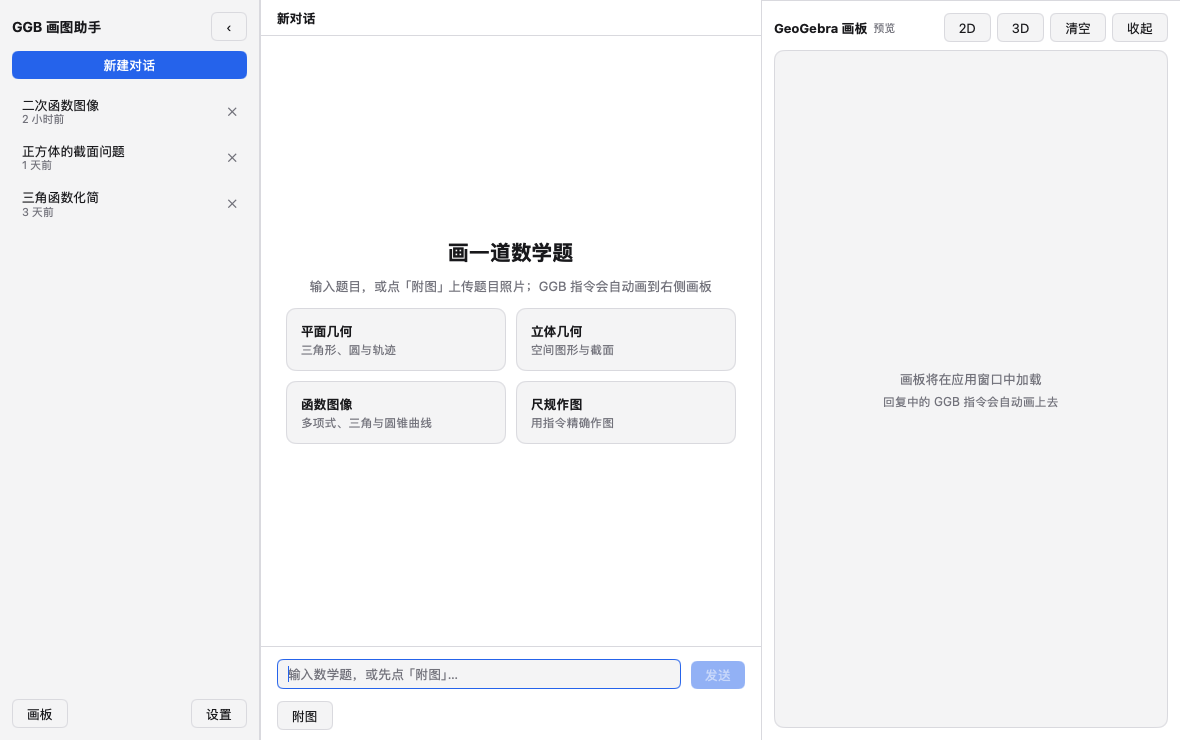
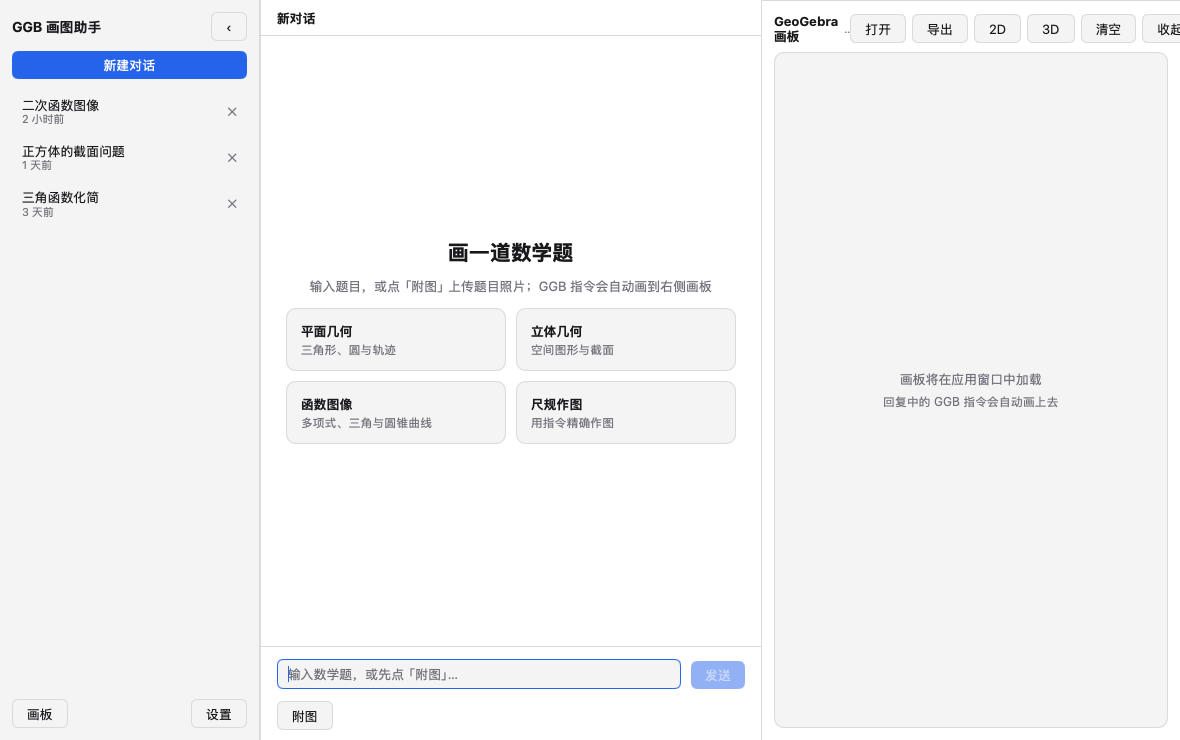
feat(desktop): bring the rest of geogebra-dsh's board tools
The board bridge now covers the full tool set from geogebra-dsh minus the
command catalog (invalid commands are already reported per-line):

- export .ggb: page getBase64 (all callback shapes, like dsh client.js) ->
  GGBBridge.Export -> save dialog -> file
- open .ggb: file picker -> base64 -> applet.setBase64 -> state report
- read state: after every command batch (and open/clear) the page reports
  getObjectNumber + getAllObjectNames; the panel status shows the live
  object count, notes for exports/failures
- board ops ride the same ggb-cmds event with an op field (run/export/
  read/open)

Changed region(s): [[0.6407, 0.0, 1.0, 0.0622]]

diff --git a/desktop/web/geogebra.html b/desktop/web/geogebra.html
@@ -112,24 +112,80 @@
     return app.evalCommand(text) === true;
   }
 
+  function runCommands(msg) {
+    if (msg.reset) {
+      try { api().newConstruction(); } catch (e) { /* 空画板无需清理 */ }
+    }
+    if (msg.perspective) {
+      try { api().setPerspective(msg.perspective); } catch (e) { /* 保持原视角 */ }
+    }
+    var applied = 0, errors = [];
+    (msg.commands || []).forEach(function (cmd) {
+      var ok = false;
+      try { ok = applyOne(cmd); } catch (e) { ok = false; }
+      if (ok) { applied++; } else { errors.push(cmd); }
+    });
+    mygo.call('GGBBridge.Report', msg.id || '', applied, errors);
+    readState(msg.id || '');
+  }
+
+  // 读状态：对象数与名字清单回报给 Go
+  function readState(id) {
+    var app = api();
+    if (!app) return;
+    var names = [];
+    try { names = app.getAllObjectNames() || []; } catch (e) { names = []; }
+    var count = app.getObjectNumber();
+    if (!count && names.length) count = names.length;
+    mygo.call('GGBBridge.State', id || '', count, JSON.stringify(names));
+  }
+
+  // 导出 .ggb：getBase64 有多种回调形态，逐个试（与 geogebra-dsh 同思路）
+  function doExport(id) {
+    var app = api();
+    if (!app) return;
+    var done = false;
+    var deliver = function (b64) {
+      if (done) return;
+      done = true;
+      mygo.call('GGBBridge.Export', id || '', String(b64 || ''));
+    };
+    try { return deliver(app.getBase64()); } catch (e) { /* 试试回调形态 */ }
+    try { app.getBase64(deliver); } catch (e) { /* 再试双参形态 */ }
+    try { app.getBase64(function (b64) { deliver(b64); }); } catch (e) {
+      mygo.call('GGBBridge.Export', id || '', '');
+    }
+  }
+
+  // 打开 .ggb：base64 直接载入当前画板
+  function doOpen(id, b64) {
+    var app = api();
+    if (!app || !b64) { mygo.call('GGBBridge.State', id || '', 0, '[]'); return; }
+    try {
+      app.setBase64(b64, function () {
+        mygo.call('GGBBridge.State', id || '', app.getObjectNumber(), JSON.stringify(app.getAllObjectNames ? app.getAllObjectNames() || [] : []));
+      });
+    } catch (e) {
+      mygo.call('GGBBridge.Export', id || '', ''); // 让 Go 侧报错（复用导出错误通道不合适，改用 State 空回报）
+      mygo.call('GGBBridge.State', id || '', -1, JSON.stringify([String(e && e.message || e)]));
+    }
+  }
+
   function flush() {
     if (applying || !api() || pending.length === 0) return;
     applying = true;
     var msg = pending.shift();
     try {
-      if (msg.reset) {
-        try { api().newConstruction(); } catch (e) { /* 空画板无需清理 */ }
+      var op = msg.op || 'run';
+      if (op === 'export') {
+        doExport(msg.id || '');
+      } else if (op === 'read') {
+        readState(msg.id || '');
+      } else if (op === 'open') {
+        doOpen(msg.id || '', msg.base64 || '');
+      } else {
+        runCommands(msg);
       }
-      if (msg.perspective) {
-        try { api().setPerspective(msg.perspective); } catch (e) { /* 保持原视角 */ }
-      }
-      var applied = 0, errors = [];
-      (msg.commands || []).forEach(function (cmd) {
-        var ok = false;
-        try { ok = applyOne(cmd); } catch (e) { ok = false; }
-        if (ok) { applied++; } else { errors.push(cmd); }
-      });
-      mygo.call('GGBBridge.Report', msg.id || '', applied, errors);
     } finally {
       applying = false;
     }

diff --git a/desktop/frontend.go b/desktop/frontend.go
@@ -10,6 +10,8 @@ package main
 import (
 	"context"
 	"embed"
+	"encoding/base64"
+	"encoding/json"
 	"io/fs"
 	"os"
 	"path/filepath"
@@ -24,12 +26,14 @@ var webFS embed.FS
 // ggbCmdsEvent 是 Go → 页面的命令事件；负载是 JSON 字符串。
 var ggbCmdsEvent = mygo.NewEvent[string]("ggb-cmds")
 
-// boardMsg 是发给嵌入页的命令负载。
+// boardMsg 是发给嵌入页的负载；op 缺省为 "run"（执行指令）。
 type boardMsg struct {
 	ID          string   `json:"id"`
+	Op          string   `json:"op,omitempty"`          // run | export | read | open
 	Perspective string   `json:"perspective,omitempty"` // "1"=2D，"T"=3D
 	Reset       bool     `json:"reset,omitempty"`
 	Commands    []string `json:"commands"`
+	Base64      string   `json:"base64,omitempty"` // op=open 时的 .ggb 内容
 }
 
 // GGBBridge 绑定给页面回调：画板就绪与指令应用结果。
@@ -49,6 +53,52 @@ func (g *GGBBridge) Report(ctx context.Context, id string, applied int, errors [
 		a.boardApplied = applied
 		a.boardErrors = errors
 	})
+}
+
+// State 由嵌入页回报画板对象数与名字清单（count=-1 表示出错，names[0] 是错误信息）。
+func (g *GGBBridge) State(ctx context.Context, id string, count int, namesJSON string) {
+	a := g.app
+	var names []string
+	json.Unmarshal([]byte(namesJSON), &names)
+	a.win.Update(func() {
+		a.boardObjectCount = count
+		a.boardObjects = names
+		if count < 0 && len(names) > 0 {
+			a.boardNote = "画板操作失败：" + names[0]
+		}
+	})
+}
+
+// Export 由嵌入页回调 .ggb 的 base64；Go 侧弹保存对话框写文件。
+func (g *GGBBridge) Export(ctx context.Context, id, b64 string) {
+	a := g.app
+	if b64 == "" {
+		a.win.Update(func() { a.boardNote = "导出失败：画板没有返回内容" })
+		return
+	}
+	a.boardBusy = true
+	go func() {
+		path, err := mygo.Dialog.Save(mygo.SaveDialogOptions{
+			Parent:      a.win,
+			Title:       "导出 GeoGebra 文件",
+			DefaultPath: "画板.ggb",
+		})
+		note := ""
+		if err == nil && path != "" {
+			data, decErr := base64.StdEncoding.DecodeString(b64)
+			if decErr != nil {
+				note = "导出失败：" + decErr.Error()
+			} else if werr := os.WriteFile(path, data, 0o644); werr != nil {
+				note = "导出失败：" + werr.Error()
+			} else {
+				note = "已导出 " + filepath.Base(path)
+			}
+		}
+		a.win.Update(func() {
+			a.boardBusy = false
+			a.boardNote = note
+		})
+	}()
 }
 
 // ---- 指令 → 画板 ----

diff --git a/desktop/view_model.go b/desktop/view_model.go
@@ -52,12 +52,15 @@ type app struct {
 	showSettings bool
 
 	// GeoGebra 画板
-	ggbView      *mygo.WebView
-	boardReady   bool
-	boardBusy    bool
-	boardApplied int
-	boardErrors  []string
-	boardSeq     int
+	ggbView          *mygo.WebView
+	boardReady       bool
+	boardBusy        bool
+	boardApplied     int
+	boardErrors      []string
+	boardObjectCount int
+	boardObjects     []string
+	boardNote        string
+	boardSeq         int
 
 	md  markdown.Options
 	api *OpenAIClient
@@ -397,6 +400,54 @@ func (a *app) sendToBoard(reset bool, perspective, text string) {
 		a.boardApplied = len(commands) // headless：假装全部成功，保证测试确定性
 		return
 	}
+	a.sendBoardMsg(msg)
+}
+
+// boardOp 发一个非 run 的画板操作（export / read）。
+func (a *app) boardOp(op string) {
+	if a.ggbView == nil {
+		return
+	}
+	a.boardSeq++
+	a.sendBoardMsg(boardMsg{ID: "b" + strconv.Itoa(a.boardSeq), Op: op})
+}
+
+// openGGBFile 选一个 .ggb 文件读入画板。
+func (a *app) openGGBFile() {
+	if a.win == nil || a.boardBusy {
+		return
+	}
+	go func() {
+		paths, err := mygo.Dialog.Open(mygo.OpenDialogOptions{
+			Parent:  a.win,
+			Title:   "打开 GeoGebra 文件",
+			Filters: []mygo.FileFilter{{Name: "GeoGebra", Extensions: []string{"ggb"}}},
+		})
+		if err != nil || len(paths) == 0 {
+			return
+		}
+		data, readErr := os.ReadFile(paths[0])
+		a.win.Update(func() {
+			if readErr != nil {
+				a.boardNote = "读取失败：" + readErr.Error()
+				return
+			}
+			if a.ggbView == nil {
+				return
+			}
+			a.boardSeq++
+			a.boardBusy = true
+			a.boardNote = ""
+			a.sendBoardMsg(boardMsg{
+				ID:     "b" + strconv.Itoa(a.boardSeq),
+				Op:     "open",
+				Base64: base64.StdEncoding.EncodeToString(data),
+			})
+		})
+	}()
+}
+
+func (a *app) sendBoardMsg(msg boardMsg) {
 	payload, err := json.Marshal(msg)
 	if err != nil {
 		return

diff --git a/desktop/view.go b/desktop/view.go
@@ -357,20 +357,29 @@ func (a *app) boardPanel(c *ui.Context, t *ui.Theme) {
 			case a.ggbView == nil:
 				status = "预览"
 			case a.boardBusy:
-				status = "应用中…"
+				status = "处理中…"
 			case !a.boardReady:
 				status = "加载中…"
+			case a.boardNote != "":
+				status = a.boardNote
 			case len(a.boardErrors) > 0:
 				status = strconv.Itoa(len(a.boardErrors)) + " 条失败"
+			case a.boardObjectCount > 0:
+				status = strconv.Itoa(a.boardObjectCount) + " 个对象"
 			case a.boardApplied > 0:
 				status = "已应用 " + strconv.Itoa(a.boardApplied) + " 条"
 			}
-			ui.Text(c, status).FontSize(11).TextColor(t.TextMuted)
-			ui.Spacer(c)
-			if ui.Button(c, "2D").Clicked() {
+			ui.Text(c, status).FontSize(11).TextColor(t.TextMuted).Grow(1).SingleLine()
+			if ui.Button(c, "打开").Label("打开 .ggb 文件").Clicked() {
+				a.openGGBFile()
+			}
+			if ui.Button(c, "导出").Label("导出 .ggb 文件").Clicked() {
+				a.boardOp("export")
+			}
+			if ui.Button(c, "2D").Label("切到平面视图").Clicked() {
 				a.sendToBoard(false, "1", "")
 			}
-			if ui.Button(c, "3D").Clicked() {
+			if ui.Button(c, "3D").Label("切到立体视图").Clicked() {
 				a.sendToBoard(false, "T", "")
 			}
 			if ui.Button(c, "清空").Clicked() {
